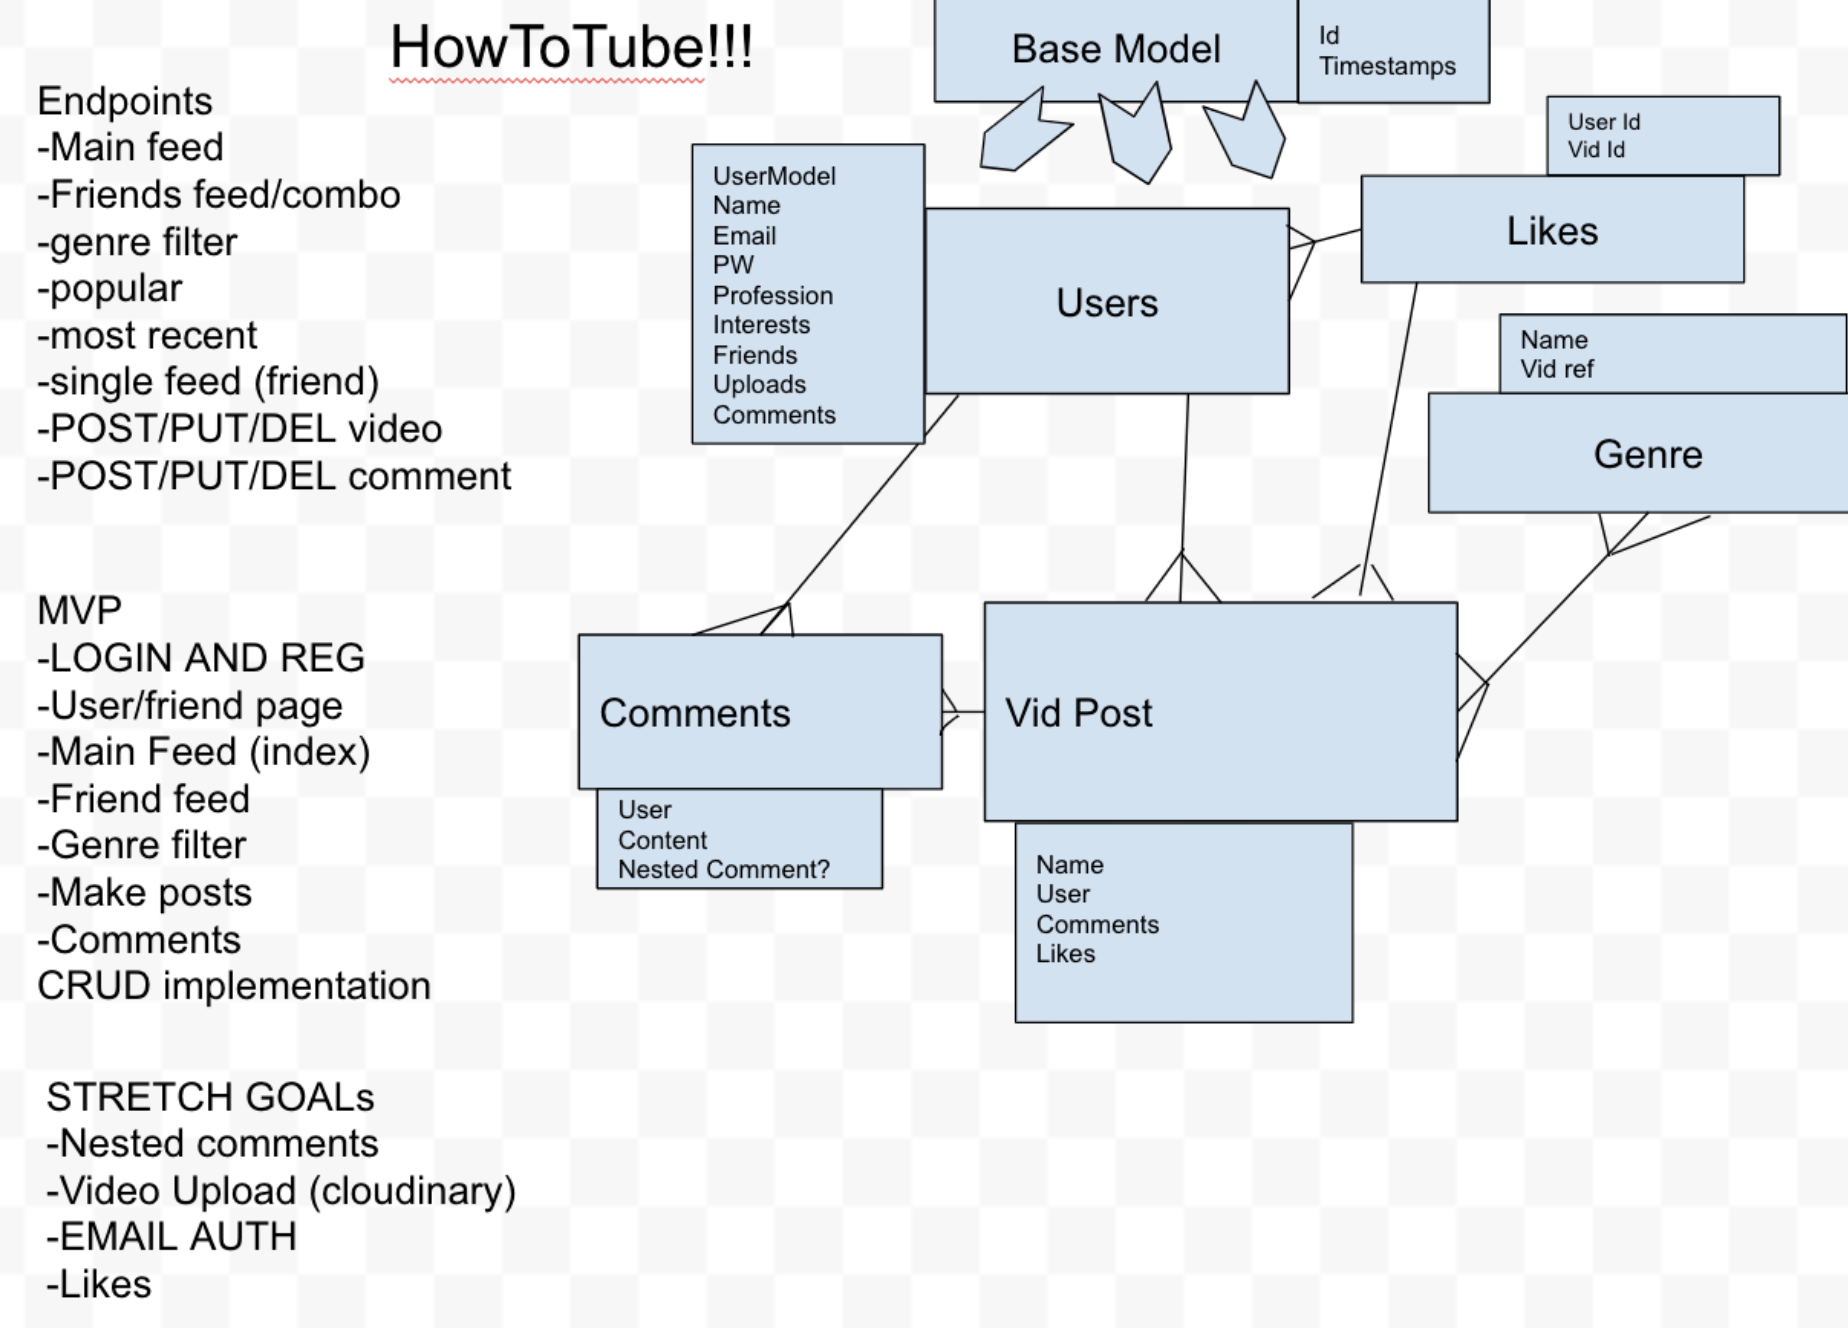
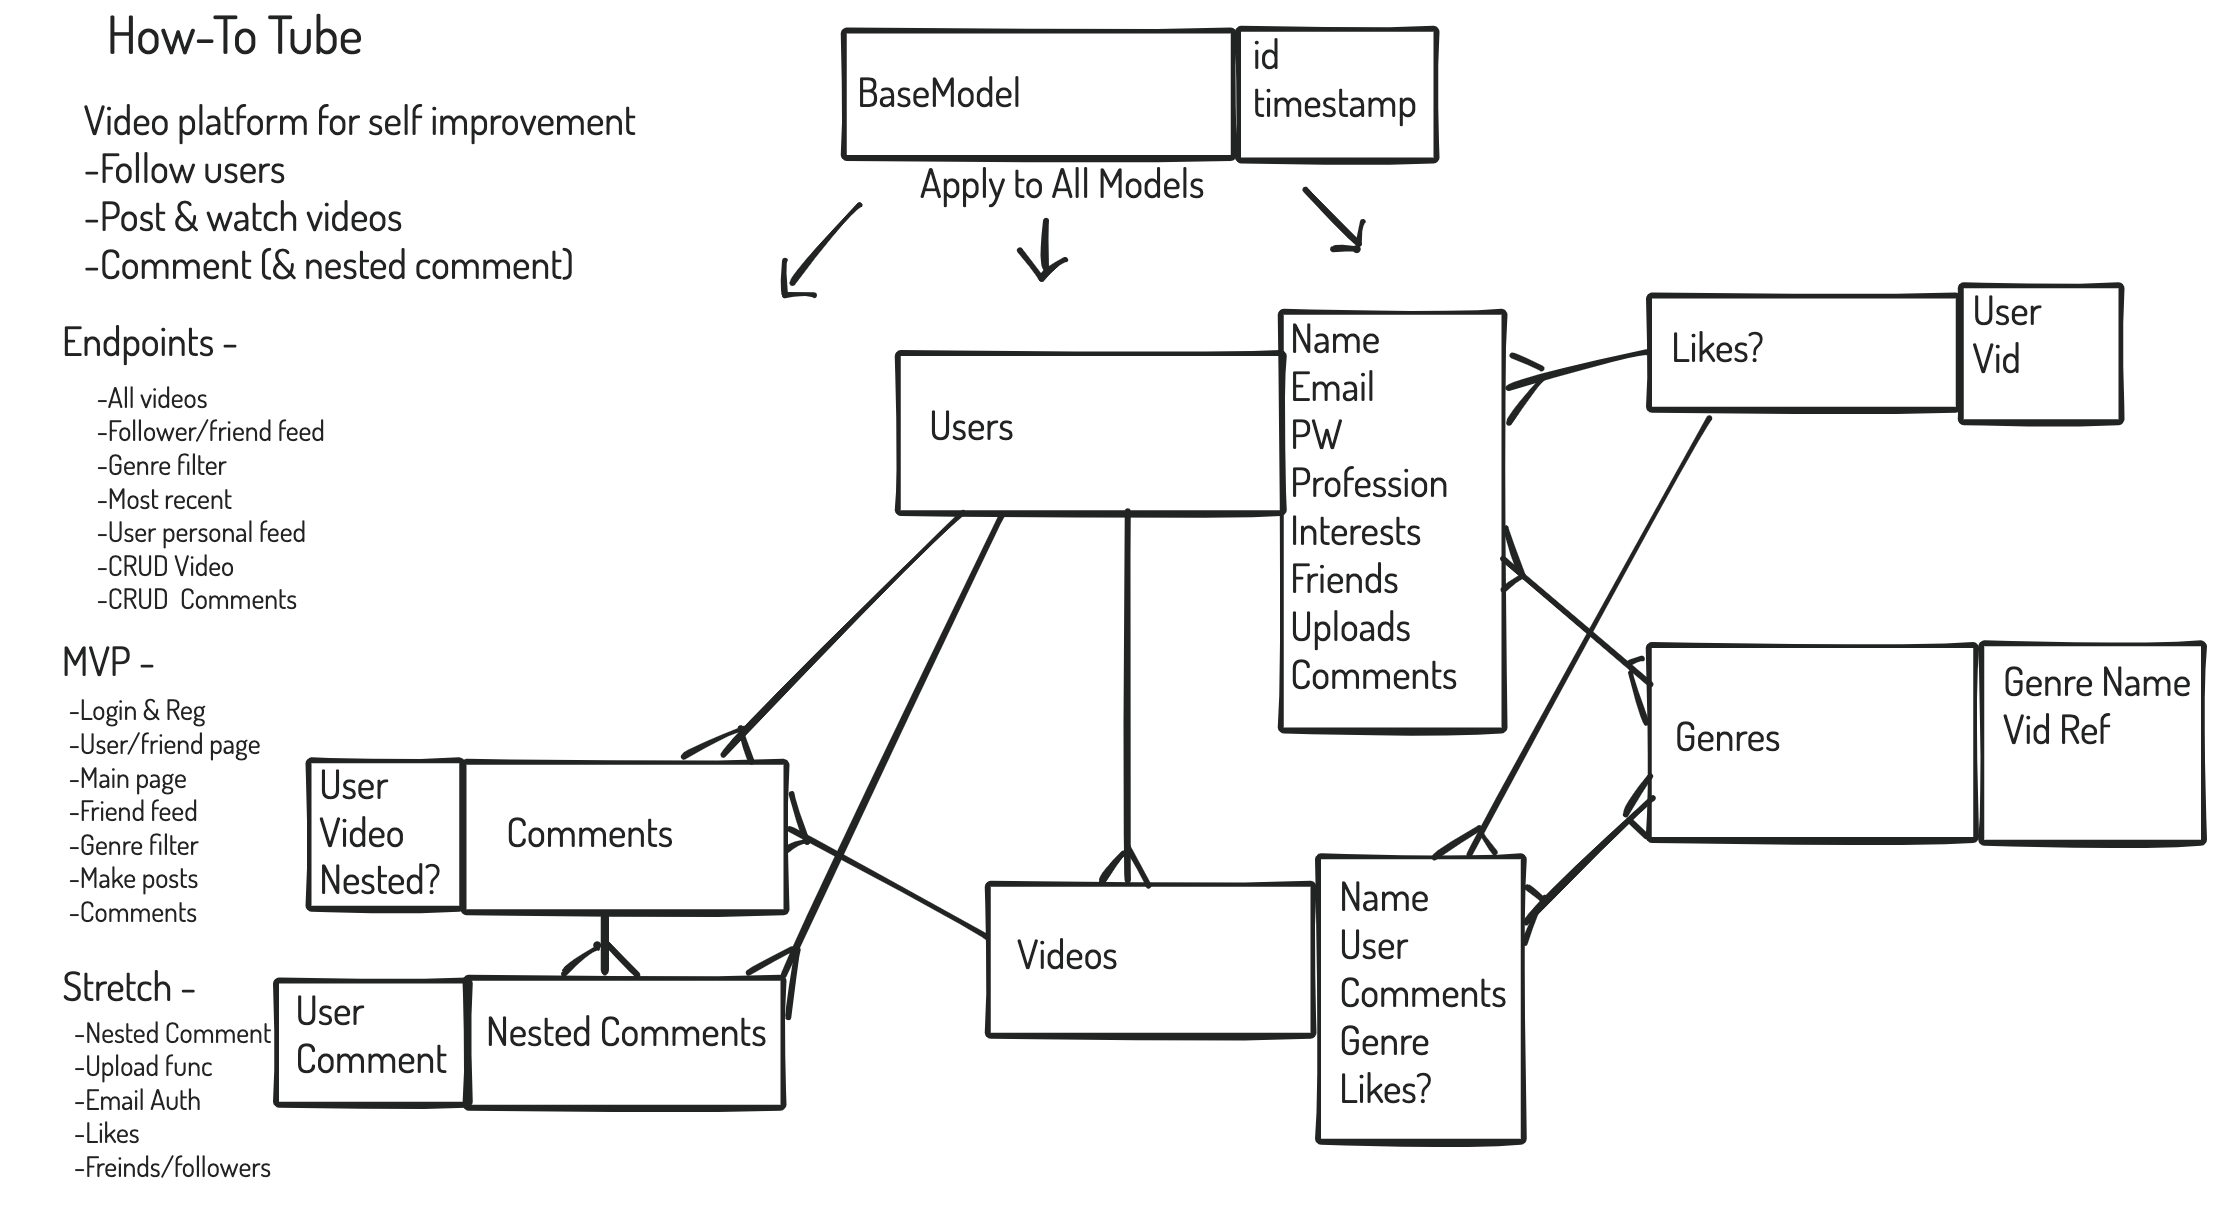
readme upd8

diff --git a/README.md b/README.md
@@ -54,15 +54,15 @@ In order to work as a team and develop coherently - we took time looking at the 
 1. Develop an understanding of what our user story would look like
 2. Design the database backend, including relationship diagrams 
 3. Develop the core backend features as a group and get a clear understanding of the backend structure before diving in further
-4. Gather the external APIs we would be using and initiate them on the back end 
+4. Gather the external APIs we would be using and initiate them on the backend 
 5. Attach the backend endpoints to the front end using React
 6. Form a style guide - including a wireframe, colour pallette and logo 
 
 ### Design & SQL Relationships
 
 Most of our first day was spent looking at what features we wanted to include in our app. I think that our vision for this app and how we saw people interacting with it informed what endpoints we wanted on our Database - which in turn allowed us to create a comprehensive relationship diagram. Getting a clear idea of the Database was key to a smooth development process down the line.
-<!-- !relationship diagram here -->
-<!-- \![]()  -->
+
+![Relationship Diagram](README_files/relationship_diagram.png) 
 
 As for the user stroy we found that two pieces of design were important - firstly the ability to easily post videos, add comments and the ability to reply to comments. And secondly the ability to connect - or follow - other users in order to provide a user with a list of videos based on their interests and who they follow.
 
@@ -185,9 +185,80 @@ class PopulateUserSchema(ma.SQLAlchemyAutoSchema, BaseSchema):
 
 ### The Front End & React
 
+With the backend roughed out and major endpoints ready to be used it was time for some of the team to start developing the frontend in React. Considering how powerful SQL databases can be - it was a good idea to start developing the front end before completing the backend as to tailor exactly what we wanted to be served to the front end. Our high level development of the frontend happened early on in the project along - to get a grasp of how the features hung together. We were all in agreement that developing mobile first functionality was important in regards to the user experience and the target audience we had in mind. Here we have some early wire-framing of the site layout -
 
+![site wireframe](README_files/wireframe.png)
+
+Even with a robust backend in place - we still wanted to manipulate and display the data we had in interesting ways, with a focus on interactivity with the content of the site. Some of the core features that needed this were the Users page - where you could navigate to other users pages and follow other users; video and user creation - where you could set genres or interests; and filtering multiple genres from multiple videos to get a unique list of videos.
+
+In this example when the follow button is clicked and the button is inactive - a new user object is created, the old user object is replaced with a splice and the userData array is updated with a function. Finally the follow is sent off the the backend with an Axios PUT to update the account of the current user - 
+
+```javascript
+if (user.isActive === '') {
+  const newUser = {
+    id: user.id,
+    username: user.username,
+    genres: user.genres,
+    isActive: 'button-is-active'
+  }
+  const newData = [...usersData]
+  newData.splice(index, 1, newUser)
+
+  const update = () => updateUsersData(newData)
+  update()
+
+  const newFollow = { following: [{ id: user.id }, ...currentUser] }
+
+  axios.put('/api/follow', newFollow, {
+    headers: { Authorization: `Bearer ${token}` }
+    })
+    .then(resp => {
+      updateUser(resp.data.following)
+    })
+} 
+```
+
+Here we have the example of updating the users interests on the Create and Edit User pages - where when a genre button is clicked it checks the value sets the id for a function and updates the state of the button. It then calls a function to check if the genre selected exists in the genre form data - and adds or removes depending on the result. The form data object is then updated with the new genre array -
+
+```javascript
+  let id = null
+  const array = formData.genres
+ 
+    // An Entry for each Genre
+  if (e.target.value === 'Lifestyle') {
+    id = 12
+    if (lifeClass === '') {
+      lifeUpdate('genre-button-active')
+    } else {
+      lifeUpdate('')
+    }
+  }
+    // ...
+  addOrRemove(array, id)
+
+  function addOrRemove(array, id) {
+    const obj = { id: id }
+    var index = array.findIndex(x => x.id === id)
+    if (index === -1) {
+      array.push( obj )
+    } else {
+      array.splice(index, 1)
+    }
+
+    const data = {
+      ...formData,
+      genres: array
+    }
+
+    updateFormData(data)
+
+  }
+```
+The above piece of logic has been hard coded - to improve this i would map out each genre programmatically (in DRY fashion).
 
 ### Styling & SASS
+
+The look and feel of the site
 
 ## The Result!
 
